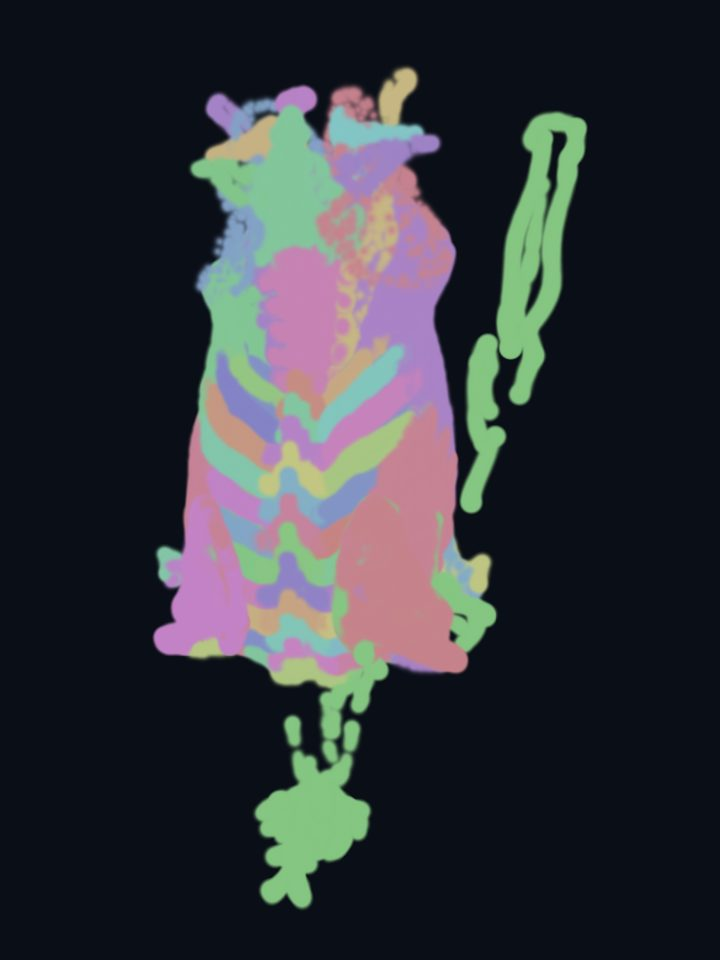
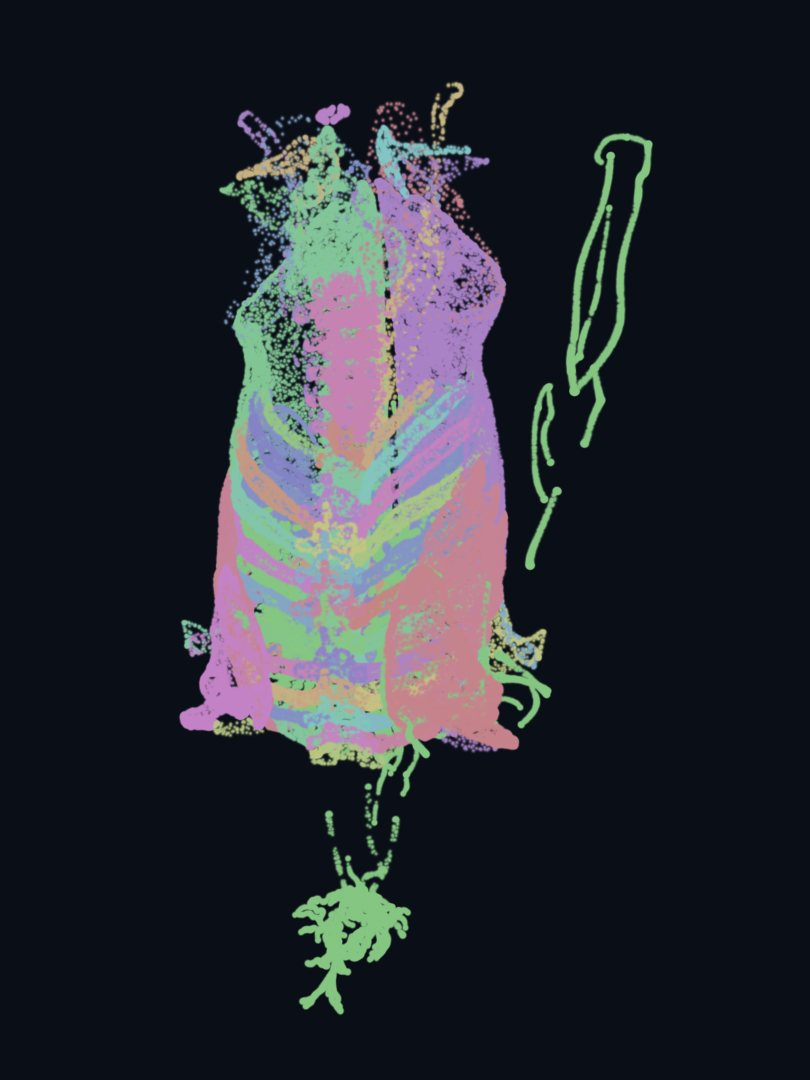
cockpit/torso: smaller splat brush — detail over blur
The /torso splat3d frames used a big isotropic gaussian (scale 0.008) tuned for
"solidity", which smeared the 231K-gaussian detail into a painterly "Warhol"
look — while /torso-live (tiny points) showed the full ribcage/vertebrae. Same
data, different brush. Re-render the turntable at scale 0.0025, 810x1080: the
detail (ribcage, spine, organs) returns. Plan records the proper next step
(anisotropic surface-fit gaussians + a third "map FMA" view).

Claude-Session: https://claude.ai/code/session_01TzqvDqbFRzyx17EkLKBoZF

Changed region(s): [[0.2139, 0.0625, 0.825, 0.9688]]

diff --git a/claude-notes/plans/2026-06-24-fma-torso-bodyparts3d-splat.md b/claude-notes/plans/2026-06-24-fma-torso-bodyparts3d-splat.md
@@ -58,3 +58,26 @@ Notes:
   ~6.6 s/frame on the scalar path (no AVX target-cpu in the scratchpad project);
   correctness verified by viewing the rendered frames.
 - Colours: golden-angle hue per structure at S=0.34 V=0.78 (muted, per request).
+- Brush: splat3d render uses gaussian scale 0.0025 (was 0.008 — the big isotropic
+  brush blobbed the detail into a "Warhol" look; 0.0025 at 810x1080 restores the
+  ribcage/vertebrae). Frames re-rendered.
+
+## Follow-ups (proposed, next PR)
+
+The splat is currently isotropic spheres (no orientation) — too big = blobs,
+too small = disconnected dots. The real upgrade, in one pass over the meshes:
+
+- [ ] **Anisotropic surface-fit gaussians** ("connect the dots"): read OBJ
+      *faces* (the bake currently drops them) -> per-vertex normals -> orient
+      each gaussian flat-to-surface (`scale[3]` tangent-wide / normal-thin,
+      `quat` from normal). splat3d's `Gaussian3D` already supports scale+quat;
+      the three.js page needs a real splat shader (oriented quads). This is the
+      "muscle memory of the nodes" — each gaussian inherits its shape from the
+      structure it came from. NOT voxels (those are discrete/volumetric; these
+      are continuous surfaces).
+- [ ] **Third "map FMA" view**: bake a per-gaussian FMA structure id + legend
+      (idx -> FMA concept / name / colour) into SPL1, then pick-to-label in 3D
+      and sync selection with the /fma-style partonomy graph. Realises the
+      osint-cad-splat thesis: graph and splat are one node at one address, two
+      payloads. Own page (/torso-map) vs folding labels into /torso-live: TBD
+      with user.
